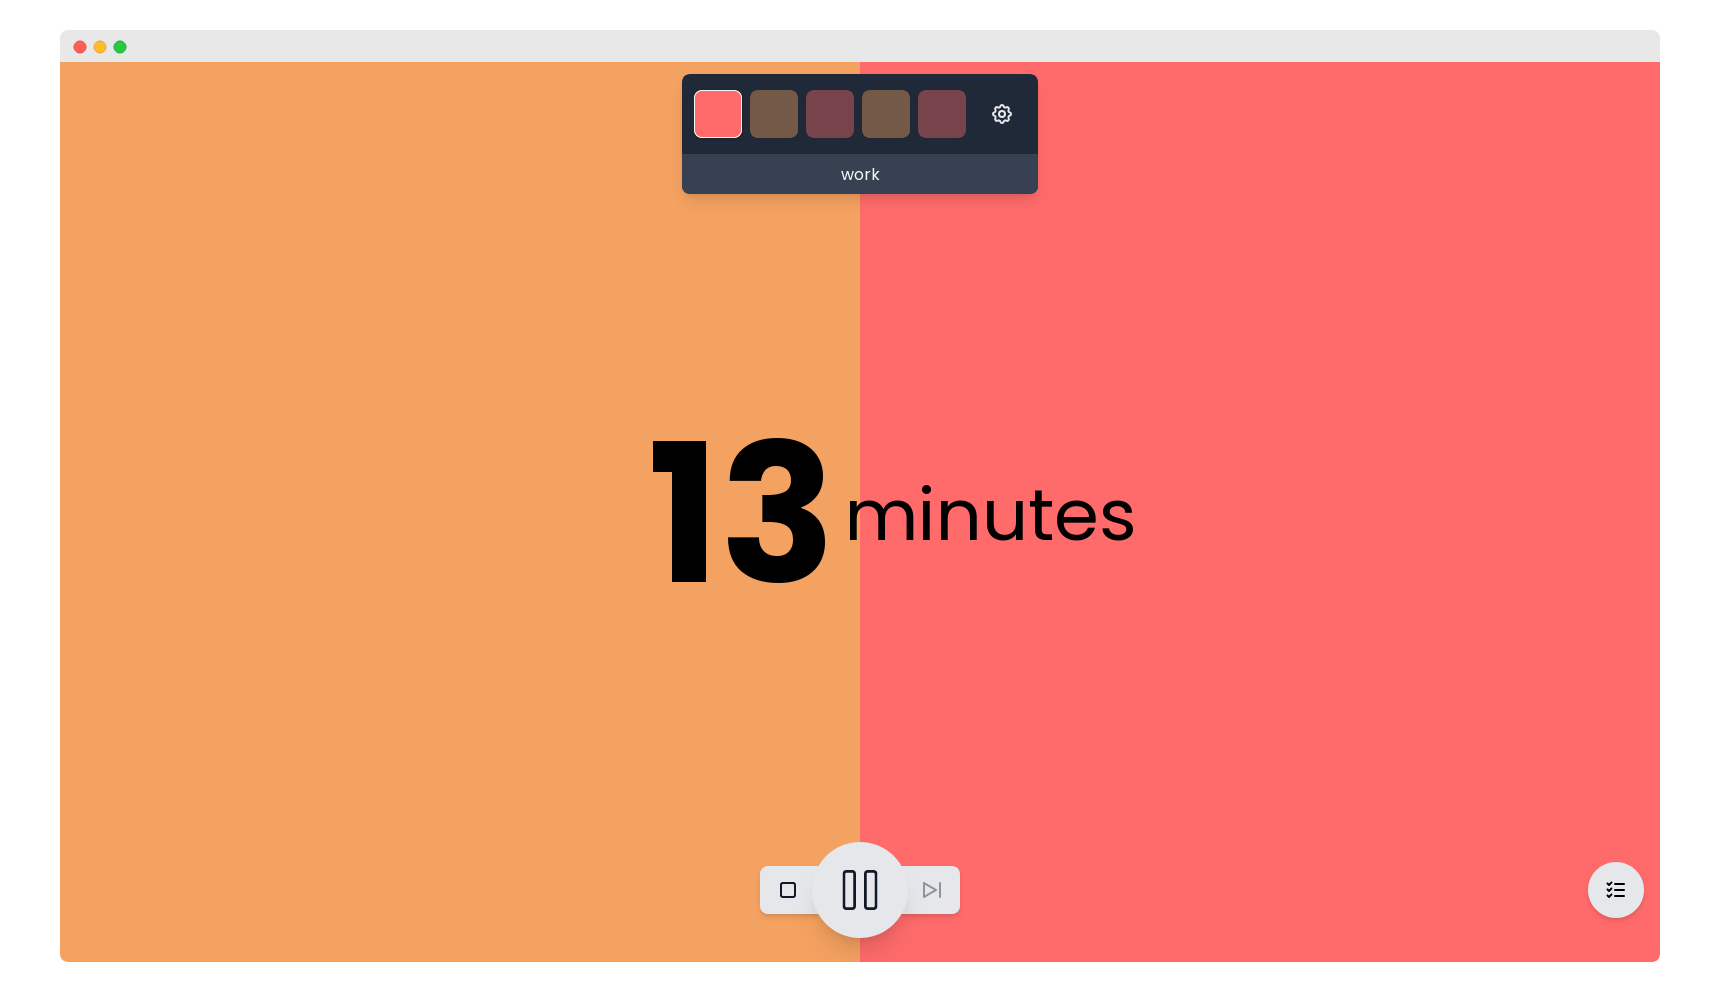
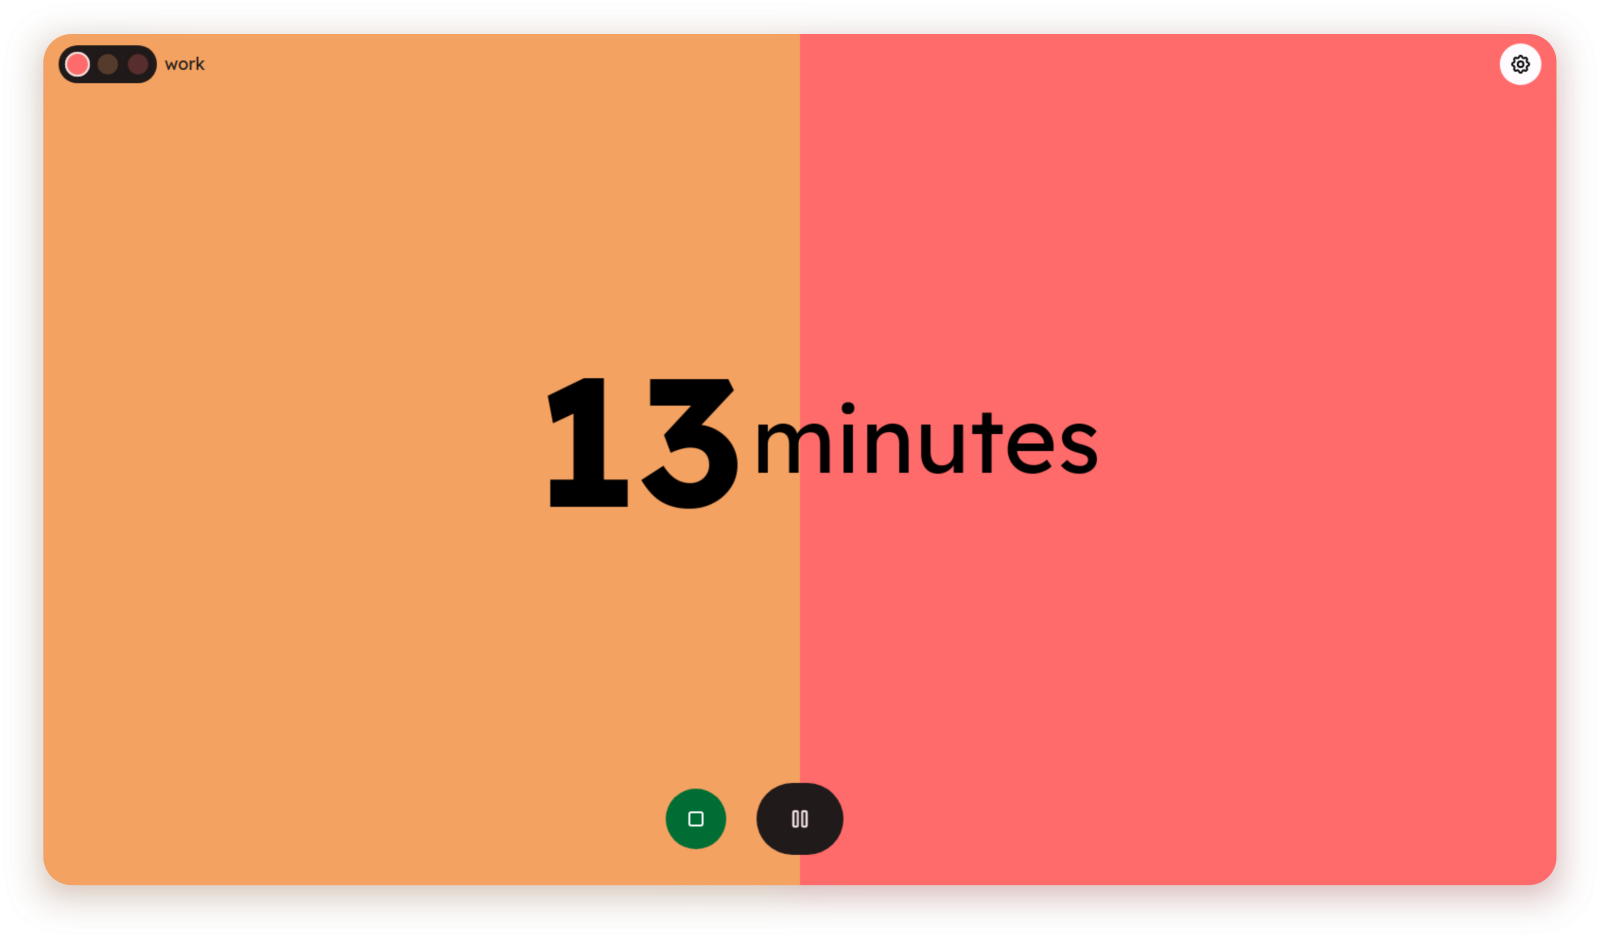
doc(readme): Update screenshots in README

Changed region(s): [[0.0, 0.0309, 1.0, 0.9893], [0.3438, 0.4019, 0.6875, 0.5874]]

diff --git a/README.md b/README.md
@@ -76,9 +76,9 @@ Production deployments (on Netlify or elsewhere) may use third-party tools (like
 The app itself still does not collect any data (eg. when you're running it on your own machine) 💪
 
 ## 🖼 More screenshots
-![Settings in dark mode](./public/assets/img/ProductImg_SettingsDark.png)
+![The display section of the settings panel](./public/assets/img/ProductImg_Settings.png)
 
-![The percentage timer with the revamped to-do list](./public/assets/img/ProductImg_Percentage.png)
+![The traditional timer with the to-do panel open](./public/assets/img/ProductImg_TodoOpen.png)
 ## 🏗 If you're a developer
 
 This is an open-source project that welcomes contributions. Please check the [**contribution guidelines**](./CONTRIBUTING.md) before opening issues, discussions or pull requests!
